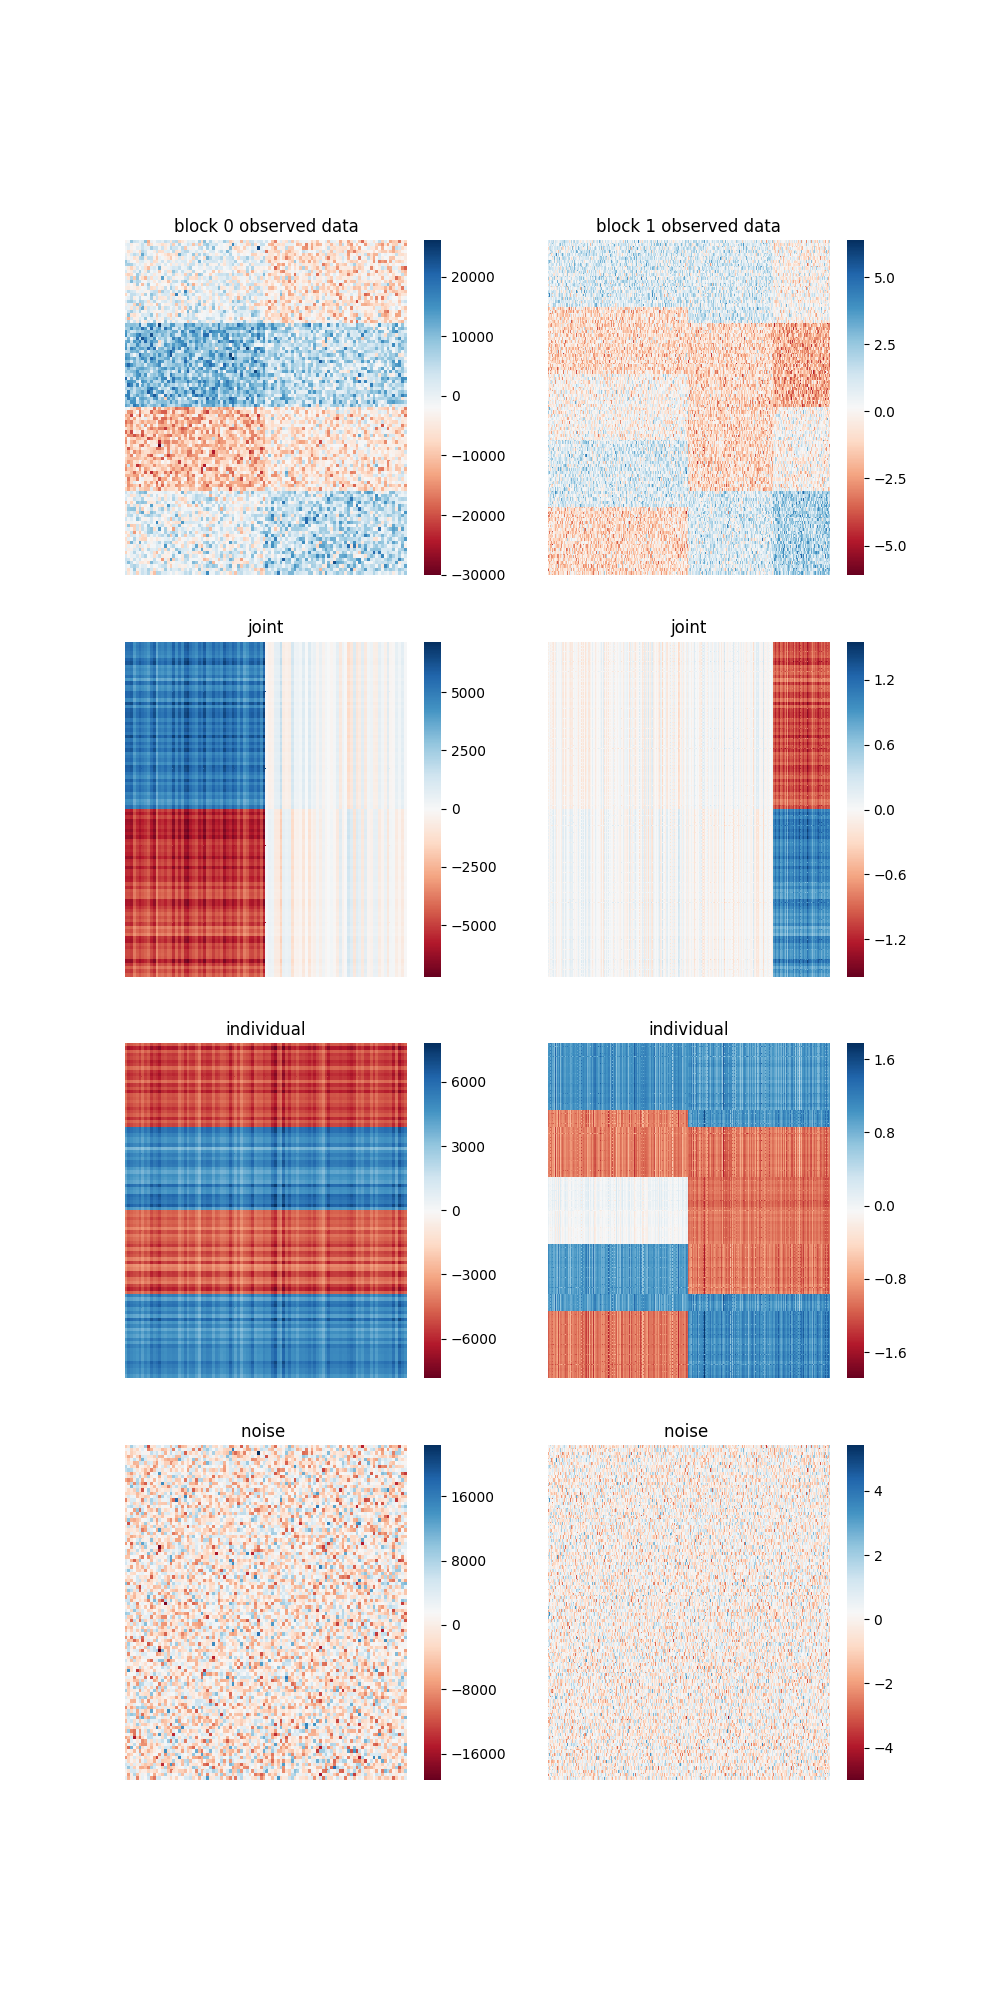
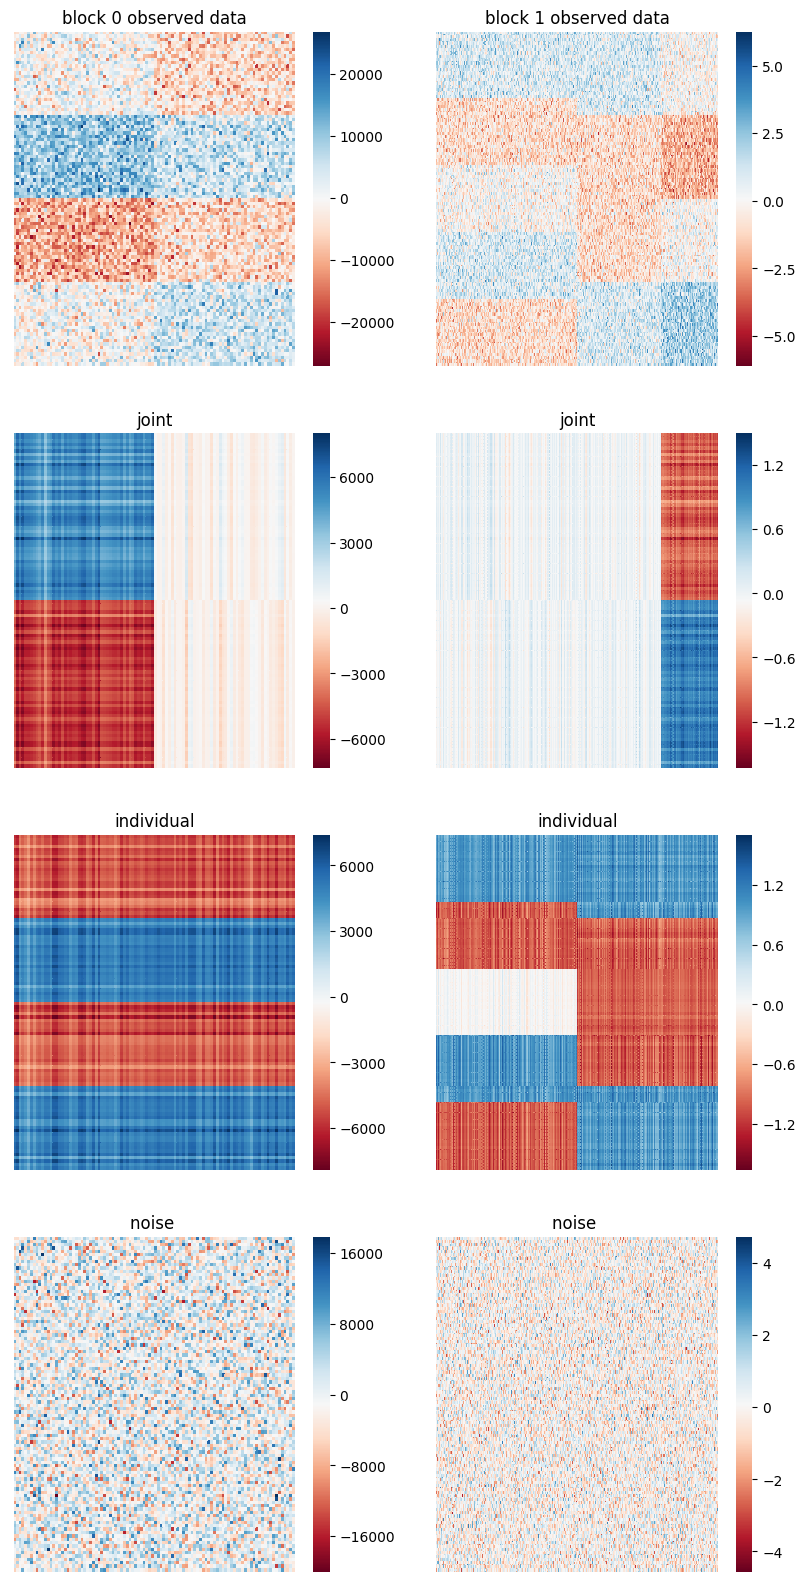
readme figures

diff --git a/doc/make_readme_figures.py b/doc/make_readme_figures.py
@@ -1,0 +1,33 @@
+from jive.AJIVE import AJIVE
+from jive.PCA import PCA
+from jive.ajive_fig2 import generate_data_ajive_fig2
+from jive.viz.block_visualization import data_block_heatmaps, jive_full_estimate_heatmaps
+import matplotlib.pyplot as plt
+
+X, Y = generate_data_ajive_fig2()
+plt.figure(figsize=[11,  5])
+data_block_heatmaps([X, Y])
+plt.savefig('figures/data_heatmaps.png', bbox_inches='tight')
+plt.close()
+
+# determine initial signal ranks by inspecting scree plots
+plt.figure(figsize=[10, 5])
+plt.subplot(1, 2, 1)
+PCA().fit(X).plot_scree()
+plt.subplot(1, 2, 2)
+PCA().fit(Y).plot_scree()
+plt.savefig('figures/scree_plots.png', bbox_inches='tight')
+plt.close()
+
+ajive = AJIVE(init_signal_ranks={'x': 2, 'y': 3})
+ajive.fit(blocks={'x': X, 'y': Y})
+
+plt.figure(figsize=[10, 20])
+jive_full_estimate_heatmaps(ajive.get_full_block_estimates(),
+                            blocks={'x': X, 'y': Y})
+plt.savefig('figures/jive_estimate_heatmaps.png', bbox_inches='tight')
+plt.close()
+
+ajive.plot_joint_diagnostic()
+plt.savefig('figures/jive_diagnostic.png', bbox_inches='tight')
+plt.close()
